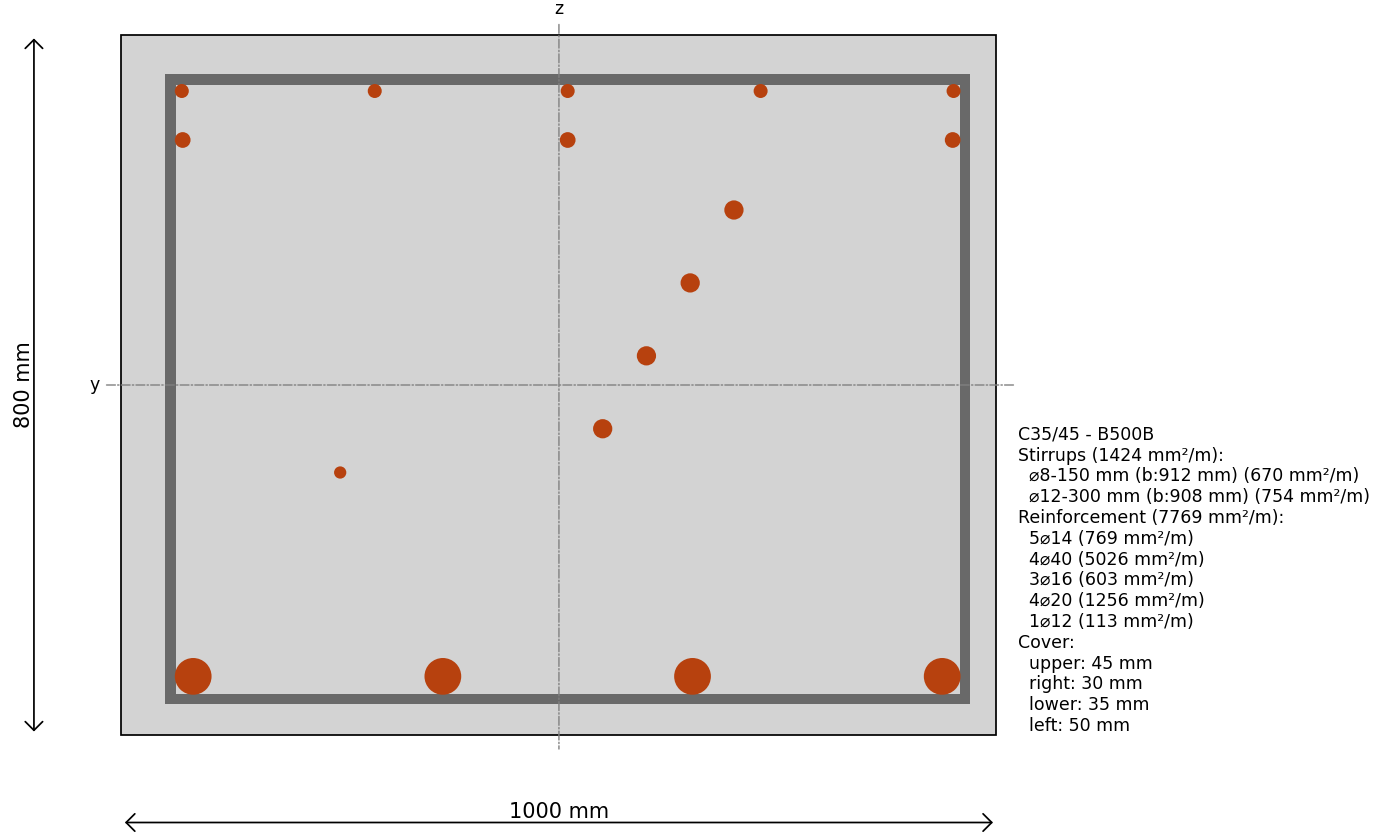
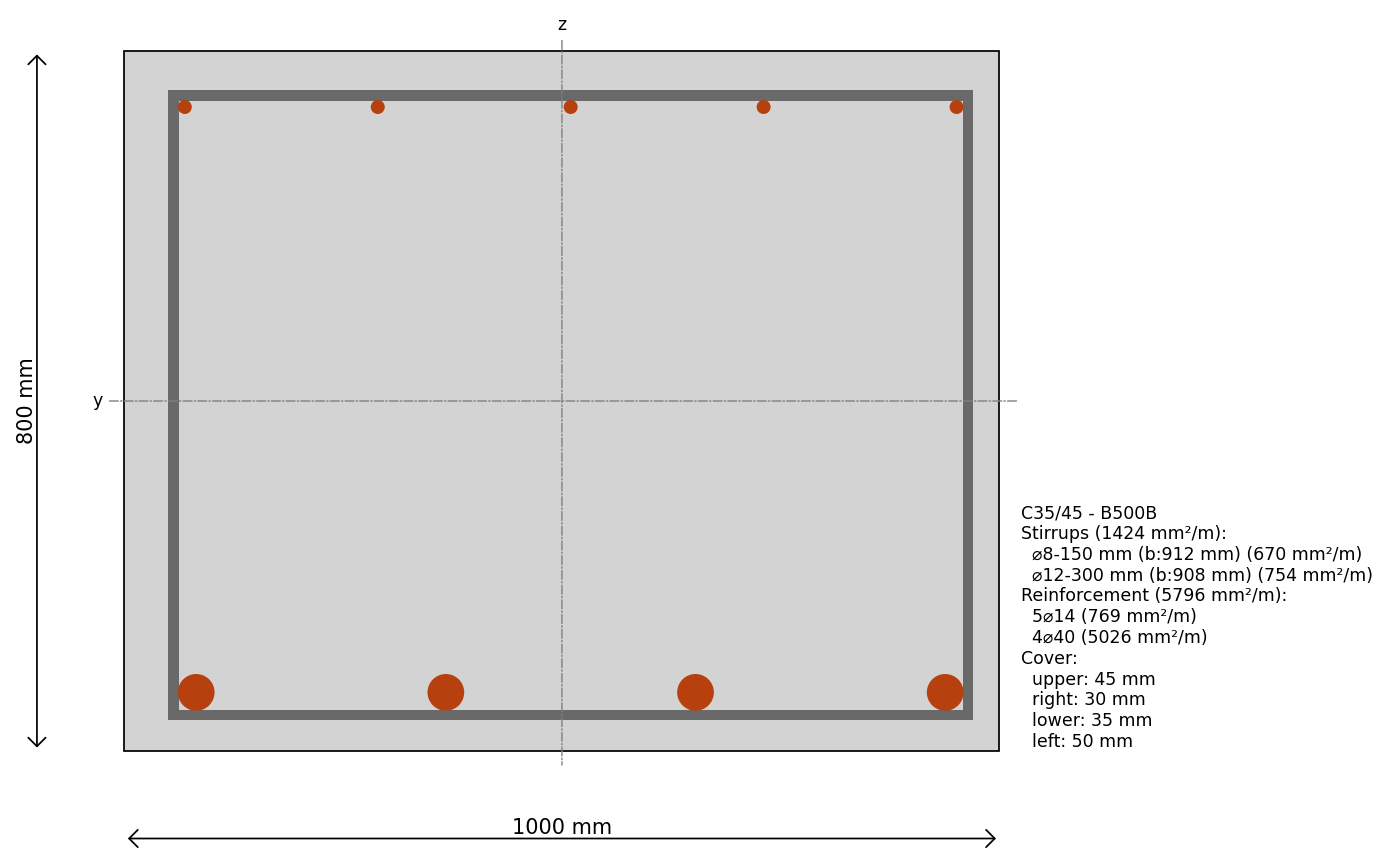
kiss

diff --git a/docs/source/examples/rectangular_reinforced_cross_section.py b/docs/source/examples/rectangular_reinforced_cross_section.py
@@ -1,13 +1,9 @@
 """Reinforced concrete cross-section example."""
 
-from shapely import LineString
-
 from blueprints.materials.concrete import ConcreteMaterial, ConcreteStrengthClass
 from blueprints.materials.reinforcement_steel import ReinforcementSteelMaterial, ReinforcementSteelQuality
 from blueprints.structural_sections.concrete.covers import CoversRectangular
-from blueprints.structural_sections.concrete.rebar import Rebar
 from blueprints.structural_sections.concrete.reinforced_concrete_sections.rectangular import RectangularReinforcedCrossSection
-from blueprints.structural_sections.concrete.reinforced_concrete_sections.reinforcement_configurations import ReinforcementByQuantity
 
 # Define a concrete material
 concrete = ConcreteMaterial(concrete_class=ConcreteStrengthClass.C35_45)
@@ -37,21 +33,6 @@ cs.add_longitudinal_reinforcement_by_quantity(
     material=steel,
 )
 
-# add a second layer of reinforcement to the cross-section
-cs.add_longitudinal_reinforcement_by_quantity(
-    n=3,
-    diameter=16,
-    edge="upper",
-    material=steel,
-    cover=100,
-)
-
-# add a free reinforcement configuration to the cross-section
-cs.add_reinforcement_configuration(
-    line=LineString([(50, -50), (200, 200)]),
-    configuration=ReinforcementByQuantity(diameter=20, n=4, material=steel),
-)
-
 # Add stirrups to the cross-section
 cs.add_stirrup_along_edges(
     diameter=8,
@@ -63,16 +44,6 @@ cs.add_stirrup_along_edges(
     diameter=12,
     distance=300,
     material=steel,
-)
-
-# Add a longitudinal rebar to the cross-section
-cs.add_longitudinal_rebar(
-    rebar=Rebar(
-        diameter=12,
-        x=-250,
-        y=-100,
-        material=steel,
-    )
 )
 
 cs.plot(show=True)
